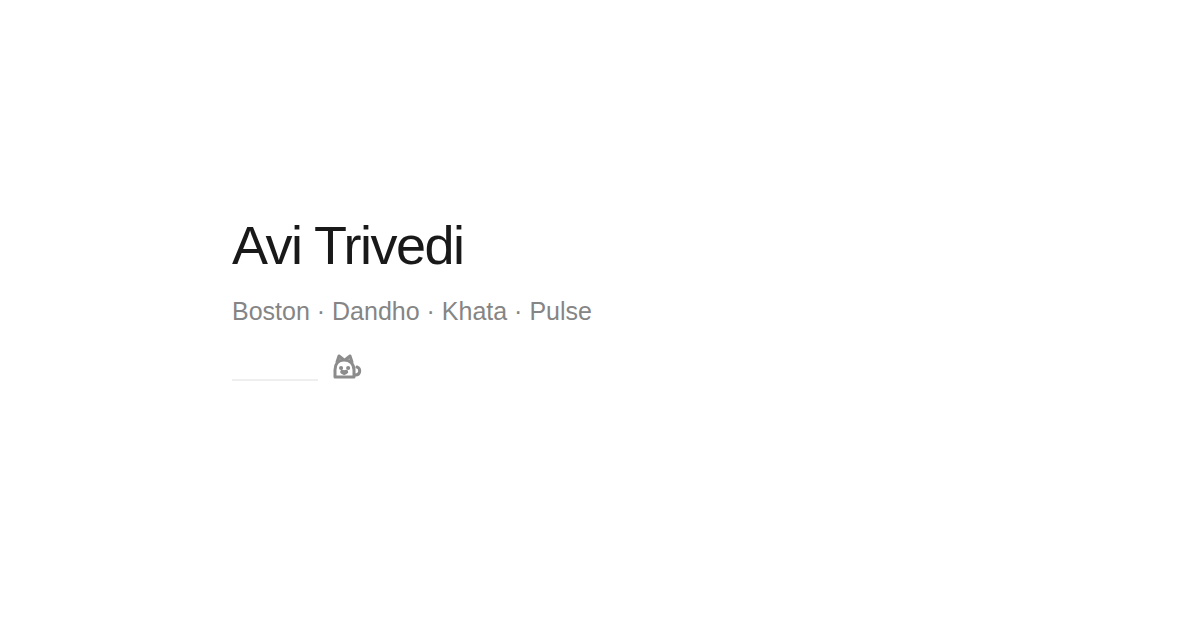
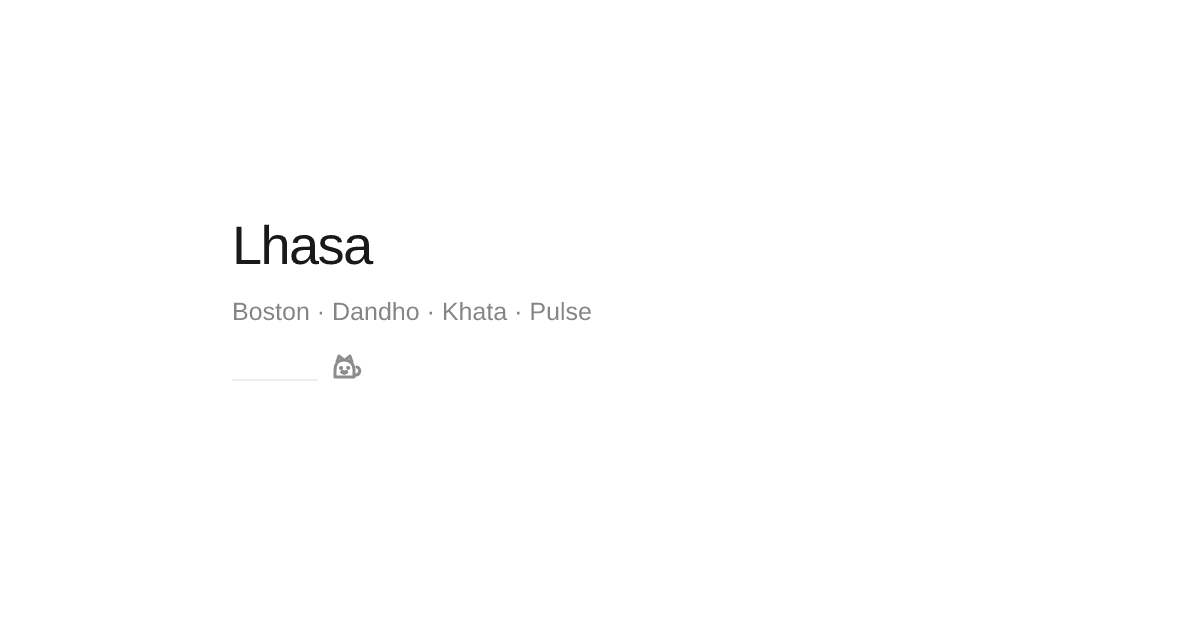
fix: rename site identity to Lhasa across pages, metadata, and tests (#1)
* Rename site identity to Lhasa

* no-mistakes(review): Regenerate social-card.png to show Lhasa, matching SVG

---------

Changed region(s): [[0.185, 0.3619, 0.4008, 0.4222], [0.185, 0.4825, 0.4933, 0.5127]]

diff --git a/site/index.html b/site/index.html
@@ -5,16 +5,16 @@
     <meta name="viewport" content="width=device-width, initial-scale=1">
     <meta name="theme-color" content="#ffffff">
     <meta name="description" content="Avi Trivedi is a Boston-based founder and builder working on practical software for local businesses and clearer operations.">
-    <meta property="og:title" content="Avi Trivedi">
-    <meta property="og:description" content="Notes on Dandho, Khata, and Pulse by Avi Trivedi.">
+    <meta property="og:title" content="Lhasa — Avi Trivedi">
+    <meta property="og:description" content="Lhasa hosts notes on Dandho, Khata, and Pulse by Avi Trivedi.">
     <meta property="og:type" content="website">
     <meta property="og:url" content="https://avitrivedi.github.io/avis-lighthouse/">
     <meta property="og:image" content="https://avitrivedi.github.io/avis-lighthouse/social-card.png">
     <meta property="og:image:width" content="1200">
     <meta property="og:image:height" content="630">
-    <meta property="og:image:alt" content="Avi Trivedi — founder and builder in Boston">
+    <meta property="og:image:alt" content="Lhasa — Avi Trivedi, founder and builder in Boston">
     <meta name="twitter:card" content="summary_large_image">
-    <title>Avi Trivedi</title>
+    <title>Lhasa — Avi Trivedi</title>
     <link rel="canonical" href="https://avitrivedi.github.io/avis-lighthouse/">
     <link rel="icon" href="./favicon.svg" type="image/svg+xml">
     <link rel="preload" href="./fonts/inter-latin-wght-normal.woff2" as="font" type="font/woff2" crossorigin>

diff --git a/site/pulse/index.html b/site/pulse/index.html
@@ -3,9 +3,9 @@
   <head>
     <meta charset="utf-8"><meta name="viewport" content="width=device-width, initial-scale=1">
     <meta name="theme-color" content="#ffffff"><meta name="description" content="Pulse: designing a small, inspectable route from activity data to an operating scorecard.">
-    <meta property="og:title" content="Pulse — Avi Trivedi"><meta property="og:type" content="article">
+    <meta property="og:title" content="Pulse — Lhasa"><meta property="og:type" content="article">
     <meta property="og:url" content="https://avitrivedi.github.io/avis-lighthouse/pulse/">
-    <meta property="og:image" content="https://avitrivedi.github.io/avis-lighthouse/social-card.png"><title>Pulse — Avi Trivedi</title>
+    <meta property="og:image" content="https://avitrivedi.github.io/avis-lighthouse/social-card.png"><title>Pulse — Lhasa</title>
     <link rel="canonical" href="https://avitrivedi.github.io/avis-lighthouse/pulse/">
     <link rel="icon" href="../favicon.svg" type="image/svg+xml"><link rel="stylesheet" href="../styles.css">
   </head>

diff --git a/site/khata/index.html b/site/khata/index.html
@@ -3,9 +3,9 @@
   <head>
     <meta charset="utf-8"><meta name="viewport" content="width=device-width, initial-scale=1">
     <meta name="theme-color" content="#ffffff"><meta name="description" content="Khata: a compact sales and inventory prototype for neighborhood retail.">
-    <meta property="og:title" content="Khata — Avi Trivedi"><meta property="og:type" content="article">
+    <meta property="og:title" content="Khata — Lhasa"><meta property="og:type" content="article">
     <meta property="og:url" content="https://avitrivedi.github.io/avis-lighthouse/khata/">
-    <meta property="og:image" content="https://avitrivedi.github.io/avis-lighthouse/social-card.png"><title>Khata — Avi Trivedi</title>
+    <meta property="og:image" content="https://avitrivedi.github.io/avis-lighthouse/social-card.png"><title>Khata — Lhasa</title>
     <link rel="canonical" href="https://avitrivedi.github.io/avis-lighthouse/khata/">
     <link rel="icon" href="../favicon.svg" type="image/svg+xml"><link rel="stylesheet" href="../styles.css">
   </head>

diff --git a/site/dandho/index.html b/site/dandho/index.html
@@ -4,10 +4,10 @@
     <meta charset="utf-8"><meta name="viewport" content="width=device-width, initial-scale=1">
     <meta name="theme-color" content="#ffffff">
     <meta name="description" content="Dandho: building software around the way local service businesses actually work.">
-    <meta property="og:title" content="Dandho — Avi Trivedi"><meta property="og:type" content="article">
+    <meta property="og:title" content="Dandho — Lhasa"><meta property="og:type" content="article">
     <meta property="og:url" content="https://avitrivedi.github.io/avis-lighthouse/dandho/">
     <meta property="og:image" content="https://avitrivedi.github.io/avis-lighthouse/social-card.png">
-    <title>Dandho — Avi Trivedi</title>
+    <title>Dandho — Lhasa</title>
     <link rel="canonical" href="https://avitrivedi.github.io/avis-lighthouse/dandho/">
     <link rel="icon" href="../favicon.svg" type="image/svg+xml"><link rel="stylesheet" href="../styles.css">
   </head>

diff --git a/README.md b/README.md
@@ -1,6 +1,6 @@
-# Avi Trivedi — personal site
+# Lhasa
 
-Source for Avi Trivedi’s static personal site: <https://avitrivedi.github.io/avis-lighthouse/>.
+Source for Lhasa, Avi Trivedi’s static personal site: <https://avitrivedi.github.io/avis-lighthouse/>.
 
 The site is dependency-free HTML, CSS, and JavaScript. JavaScript updates Boston civil time and the time-based cat pose; pages and links remain usable without it. There is no backend, analytics, tracker, or visitor-side API request.
 
